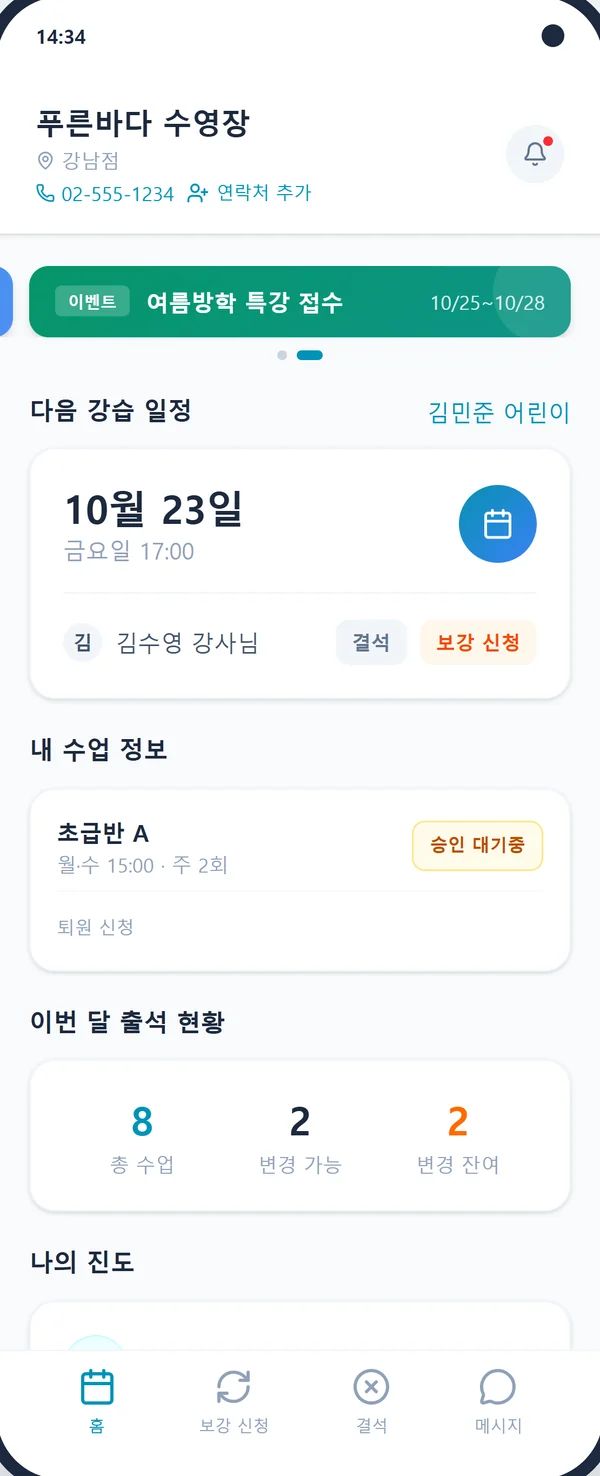
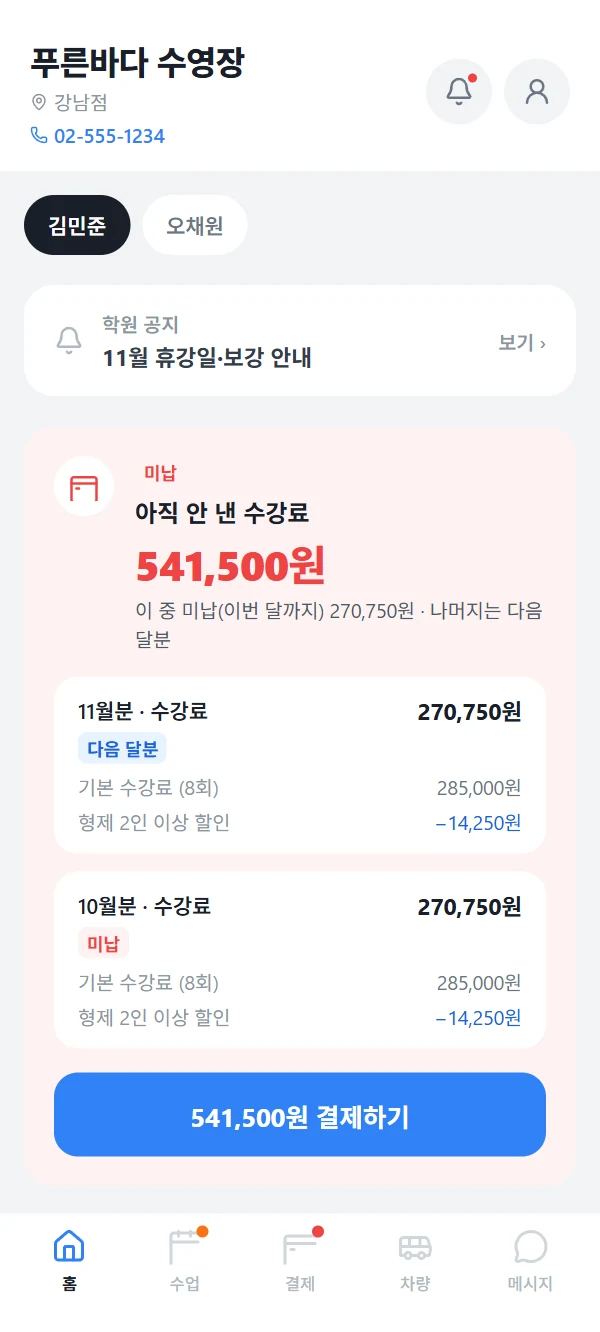
Landing: use latest app screens (v1.0.20) in 3D phone

diff --git a/intro/index.html b/intro/index.html
@@ -933,10 +933,10 @@ table.vs2 td.me::before{content:"";position:absolute;left:22px;top:19px;width:20
     <div class="devices notranslate" translate="no">
       <div class="glow" aria-hidden="true"></div>
       <div class="floor" aria-hidden="true"></div>
-      <div class="stage3d" id="stage3d" data-g-host><div class="galaxy" id="g-hero" aria-hidden="true" data-apps='[{"content": "img/app-parent.webp", "nav": "img/app-parent.webp"}]'></div>
+      <div class="stage3d" id="stage3d" data-g-host><div class="galaxy" id="g-hero" aria-hidden="true" data-apps='[{"content": "img/app-parent.webp", "nav": "img/app-parent.webp", "top": 0, "navY": 1214, "navH": 118}]'></div>
       <div class="phone3d"><i class="slab" style="--z:1"></i><i class="slab" style="--z:2"></i><i class="slab" style="--z:3"></i><i class="slab" style="--z:4"></i><i class="slab" style="--z:5"></i><i class="slab" style="--z:6"></i><i class="slab" style="--z:7"></i><i class="slab" style="--z:8"></i><i class="slab" style="--z:9"></i><i class="slab" style="--z:10"></i><i class="slab" style="--z:11"></i><i class="slab" style="--z:12"></i>
       <div class="phone real">
-        <img src="img/app-parent.webp" width="600" height="1452" alt="SwimSync 학부모 앱 홈 화면 — 다음 강습 일정과 결석·보강 신청 버튼, 이번 달 출석 현황" fetchpriority="high">
+        <img src="img/app-parent.webp" width="600" height="1332" alt="SwimSync 학부모 앱 홈 화면 — 학원 공지, 미납 수강료와 바로 결제 버튼" fetchpriority="high">
       </div>
       </div>
       <div class="card-f glass a" aria-hidden="true">
@@ -1004,14 +1004,14 @@ table.vs2 td.me::before{content:"";position:absolute;left:22px;top:19px;width:20
           <p class="label">실제 앱 화면</p>
           <h2 class="h2" id="sc-h">학부모·강사·기사가<br>각자 앱에서 처리해요</h2>
           <div class="ss-chips" role="tablist" aria-label="앱 고르기"><button type="button" data-i="0" aria-pressed="true">학부모 앱</button><button type="button" data-i="1" aria-pressed="false">강사 앱</button><button type="button" data-i="2" aria-pressed="false">기사 앱</button></div>
-          <ol class="ss-steps"><li class="ss-step on" data-i="0"><span class="ss-n">1</span><div><b>학부모 앱</b><em>결석·보강·결제를 버튼 하나로</em><ul><li>다음 수업에서 바로 [결석]·[보강 신청]</li><li>이번 달 출석·변경 잔여 횟수</li><li>결제 현황과 이벤트 할인 인증</li></ul><span class="ss-dots"><i></i><i></i><i></i></span><i class="ss-bar"><i></i></i></div></li><li class="ss-step" data-i="1"><span class="ss-n">2</span><div><b>강사 앱</b><em>오늘 수업 명단이 첫 화면</em><ul><li>결석·보강·반 변경이 명단에 바로 반영</li><li>반 변경 예정 학생 알림</li><li>수업마다 진도·특이사항 기록</li></ul><span class="ss-dots"><i></i><i></i><i></i></span><i class="ss-bar"><i></i></i></div></li><li class="ss-step" data-i="2"><span class="ss-n">3</span><div><b>기사 앱</b><em>오늘 노선과 탑승 명단</em><ul><li>결석한 아이는 탑승 명단에서 자동 제외</li><li>정류장 순서대로 탑승 명단</li><li>[운행 시작]으로 출발 알림</li></ul><span class="ss-dots"><i></i><i></i><i></i></span><i class="ss-bar"><i></i></i></div></li></ol>
+          <ol class="ss-steps"><li class="ss-step on" data-i="0"><span class="ss-n">1</span><div><b>학부모 앱</b><em>결석·보강·결제를 버튼 하나로</em><ul><li>홈에서 미납 수강료 확인하고 바로 결제</li><li>보강 신청 진행 상황을 바로 확인</li><li>이번 달 출석·보강 잔여와 수업 진도</li></ul><span class="ss-dots"><i></i><i></i><i></i></span><i class="ss-bar"><i></i></i></div></li><li class="ss-step" data-i="1"><span class="ss-n">2</span><div><b>강사 앱</b><em>오늘 근무와 알림이 첫 화면</em><ul><li>[출근] 버튼으로 근무 시작 기록</li><li>학생 결석 알림을 바로 확인</li><li>학원 공지·이번 주 수업 한눈에</li></ul><span class="ss-dots"><i></i><i></i><i></i></span><i class="ss-bar"><i></i></i></div></li><li class="ss-step" data-i="2"><span class="ss-n">3</span><div><b>기사 앱</b><em>정류장 순서대로 탑승 명단</em><ul><li>결석한 아이는 줄을 긋고 「결석」 표시</li><li>정류장마다 탐·내림 인원과 시간</li><li>아이 이름 옆 바로 전화 버튼</li></ul><span class="ss-dots"><i></i><i></i><i></i></span><i class="ss-bar"><i></i></i></div></li></ol>
           <p class="ss-hint">스크롤하면 다음 앱 화면이 이어서 나와요 · 개발 중인 화면이라 출시 때 일부 달라질 수 있어요</p>
         </div>
-        <div class="ss-stage" aria-hidden="true" data-g-host><div class="galaxy" id="g-story" data-apps='[{"content": "img/app-parent-long.webp", "nav": "img/app-parent.webp", "bottom": 2368}, {"content": "img/app-instructor-long.webp", "nav": "img/app-instructor.webp", "bottom": "end"}, {"content": "img/app-driver.webp", "nav": "img/app-driver.webp"}]'></div>
+        <div class="ss-stage" aria-hidden="true" data-g-host><div class="galaxy" id="g-story" data-apps='[{"content": "img/app-parent-long.webp", "nav": "img/app-parent-long.webp", "top": 0, "navY": 2132, "navH": 118}, {"content": "img/app-instructor.webp", "nav": "img/app-instructor.webp", "top": 0, "navY": 1212, "navH": 120}, {"content": "img/app-driver.webp", "nav": "img/app-driver.webp", "top": 0, "navY": 2718, "navH": 119}]'></div>
           <div class="ss-floor"></div>
           <div class="ss-3d" id="ss3d">
             <div class="phone3d ss-phone"><i class="slab" style="--z:1"></i><i class="slab" style="--z:2"></i><i class="slab" style="--z:3"></i><i class="slab" style="--z:4"></i><i class="slab" style="--z:5"></i><i class="slab" style="--z:6"></i><i class="slab" style="--z:7"></i><i class="slab" style="--z:8"></i><i class="slab" style="--z:9"></i><i class="slab" style="--z:10"></i><i class="slab" style="--z:11"></i><i class="slab" style="--z:12"></i>
-              <div class="ss-screen"><img class="ss-img on" data-i="0" src="img/app-parent-long.webp" width="600" height="2496" loading="lazy" alt="학부모 앱 화면"><img class="ss-img" data-i="1" src="img/app-instructor-long.webp" width="600" height="2351" loading="lazy" alt="강사 앱 화면"><img class="ss-img" data-i="2" src="img/app-driver.webp" width="600" height="1476" loading="lazy" alt="기사 앱 화면"></div>
+              <div class="ss-screen"><img class="ss-img on" data-i="0" src="img/app-parent-long.webp" width="600" height="2250" loading="lazy" alt="학부모 앱 화면"><img class="ss-img" data-i="1" src="img/app-instructor.webp" width="600" height="1332" loading="lazy" alt="강사 앱 화면"><img class="ss-img" data-i="2" src="img/app-driver.webp" width="600" height="2837" loading="lazy" alt="기사 앱 화면"></div>
             </div>
           </div>
         </div>

diff --git a/intro/galaxy3d.js b/intro/galaxy3d.js
@@ -40,10 +40,10 @@
     x.strokeStyle = '#111827'; x.lineWidth = 2.5; x.strokeRect(520, 22, 44, 20); x.fillRect(523.5, 25.5, 34, 13); x.fillRect(566, 28, 4, 8);
   }
   function compose(x, app, frac) {
-    var vh = CH - STATUS - NAV, ch = app.cBot - app.cTop, h = Math.min(vh, ch), off = Math.max(0, ch - vh) * frac;
+    var nh = app.navH, vh = CH - STATUS - nh, ch = app.cBot - app.cTop, h = Math.min(vh, ch), off = Math.max(0, ch - vh) * frac;
     x.fillStyle = app.bg || '#f8fafc'; x.fillRect(0, STATUS, CW, vh);
     x.drawImage(app.content, 0, app.cTop + off, CW, h, 0, STATUS, CW, h);
-    x.drawImage(app.nav, 0, SRC_NAV_Y, CW, NAV, 0, CH - NAV, CW, NAV);
+    x.drawImage(app.nav, 0, app.navY, CW, nh, 0, CH - nh, CW, nh);
     statusBar(x);
   }
 
@@ -158,7 +158,8 @@
     var cfg = JSON.parse(el.getAttribute('data-apps'));
     return Promise.all(cfg.map(function (a) {
       return Promise.all([img(a.content), img(a.nav)]).then(function (im) {
-        return { content: im[0], nav: im[1], cTop: SRC_TOP, cBot: a.bottom === 'end' ? im[0].naturalHeight : (a.bottom || SRC_NAV_Y), bg: a.bg };
+        var navY = a.navY != null ? a.navY : SRC_NAV_Y;   // 앱마다 탭 바 위치·높이가 다를 수 있다
+        return { content: im[0], nav: im[1], cTop: a.top != null ? a.top : SRC_TOP, cBot: a.bottom === 'end' ? im[0].naturalHeight : (a.bottom || navY), navY: navY, navH: a.navH || NAV, bg: a.bg };
       });
     }));
   }
